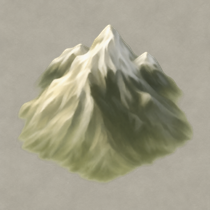
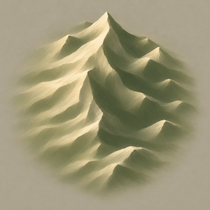
Replace canonical hills and mountains with accepted detail-v5 art
Owner accepted the latest relief and requested replacement of the previous
GitHub assets. Four unversioned PNGs now contain exact detail-v5 bytes.
Update the accepted baseline, canonical provenance and concise usage docs.
Preserve all backgrounds and versioned history; no renderer integration.

diff --git a/public/terrain/schematic/backgrounds/v1/README.md b/public/terrain/schematic/backgrounds/v1/README.md
@@ -1,114 +1,49 @@
-# Базовые фоны схематичной карты — v1
+# Подложки и рельеф схематичной карты — v1
 
-Подготовленные ассеты. К действующему отображению карты **не подключены**.
-Переход на новый режим и его реализация — следующий отдельный этап после завершения графики.
+Подготовленные ассеты. **К действующему рендереру пока не подключены.**
+Все PNG — **210 × 210 px, RGB/sRGB без прозрачности**. Подложка заполняет весь квадрат; внешний контур гекса применяется при отрисовке.
 
-Шесть отдельных непрозрачных PNG, каждый **210 × 210 px**, RGB/sRGB.
-Фон заполняет весь квадрат. Обрезку по гексу выполняет рендерер.
-Без рамок, деревьев, гор, камыша, берегов, дорог, POI и других условных знаков.
-Текстуры вдохновлены картографической манерой Strategic View Civilization V;
-это вновь сгенерированные изображения, а не извлечённые игровые материалы.
+## Шесть общих базовых фонов
 
-## Набор и согласованное назначение
-
-| Файл | Фон | Применение | Средний цвет PNG |
+| Файл | Подложка | Назначение | Средний цвет PNG |
 |---|---|---|---|
 | [grass.png](grass.png) | Травянистая | Открытые равнины и холмы; все живые леса и редколесья, включая горные, кроме заболоченного леса. | `#9DB063` |
-| [stone.png](stone.png) | Серо-каменистая | Голые горы и все мёртвые леса/редколесья, включая холмистые и горные. | `#AFAA9D` |
-| [swamp.png](swamp.png) | Болотная | Болото и заболоченный лес. | `#729079` |
+| [stone.png](stone.png) | Серо-каменистая | Голые горы и все мёртвые леса и редколесья, включая холмистые и горные. | `#AFAA9D` |
+| [swamp.png](swamp.png) | Болотная | Открытое болото и заболоченный лес. | `#729079` |
 | [sand.png](sand.png) | Песчаная | Полупустыня. | `#DFBD7A` |
 | [lake.png](lake.png) | Озёрная вода | Все озёра. | `#86B6C5` |
-| [sea.png](sea.png) | Морская вода | Всё море. Заметно темнее озёр. | `#45768F` |
+| [sea.png](sea.png) | Морская вода | Всё море, заметно темнее озёр. | `#45768F` |
 
-Средние цвета измерены по финальным PNG, это описание набора, не ограничение каждого пикселя.
-Густота и тип деревьев, рельеф, заболоченность и объекты добавляются отдельно.
-Для горных живых лесов используется grass.png; для мёртвого горного леса — stone.png.
-Заболоченный лес использует swamp.png. Море темнее озёр.
+Эти шесть фонов не изменены. Средние цвета описывают готовые PNG, а не задают цвет каждого пикселя.
+Запросы и параметры их создания: [generation.json](generation.json).
 
-## Подготовка и проверка
+## Текущий принятый рельеф — detail-v5
 
-Изображения созданы встроенным генератором изображений.
-Точные запросы и параметры финальных файлов: [generation.json](generation.json).
-Генерировался каждый фон отдельно. Финальный экспорт выполнен ImageMagick:
-`magick INPUT -filter Lanczos -resize 210x210! -alpha off -colorspace sRGB -strip -define png:color-type=2 OUTPUT.png`.
-После экспорта проверены PNG, 210×210, отсутствие прозрачности, различимость шести фонов и более тёмная морская вода.
-В код, правила генерации, настройки отображения, существующие тайлы и deployment workflow изменений нет.
+14.11.2026 владелец принял **detail-v5** и попросил заменить предыдущий вариант. Четыре основных файла без суффиксов заменены точными байтами соответствующих PNG этой версии:
 
-## Обязательная область рисунка
-
-При дальнейшей подготовке рисунков биомов используем [два нормативных шаблона](../../../../../design/schematic-tile-visible-area/v1/README.md): полный правильный гекс в каждой ориентации, без срезанных кончиков. Весь рисунок (включая кроны, ветви и тени) должен целиком помещаться внутри соответствующего контура. Подложка заполняет весь квадрат 210 × 210. Шаблоны задают целевое требование; подключение рендерера будет отдельным этапом.
-
-## Открытые холмы и горы — готовые тайлы
-
-Четыре отдельных PNG **210 × 210 px** на соответствующих базовых фонах. Рисунок — мягкий светотеневой рельеф по присланному владельцем образцу Strategic View Civilization V, без толстой контурной обводки. Холмы — группа округлых возвышенностей, горы — основная вершина с боковыми склонами.
-
-| Ориентация | Открытые холмы — grass.png | Горы — stone.png |
+| Ориентация гекса | Открытые холмы · травянистый фон | Голые горы · каменистый фон |
 |---|---|---|
 | Вершиной вверх | [open-hills-pointy.png](open-hills-pointy.png) | [mountains-pointy.png](mountains-pointy.png) |
 | Стороной вверх | [open-hills-flat.png](open-hills-flat.png) | [mountains-flat.png](mountains-flat.png) |
 
-Рисунок в обеих ориентациях остаётся вертикальным и целиком помещается в утверждённом правильном гексе. Масштабирование равномерное; склоны и вершины не обрезаны по маске. Подложка заполняет весь квадрат, за пределами рисунка исходный фон сохранён.
+Это цельные непрозрачные изображения фона и рельефа: подножия естественно переходят в землю по цвету и фактуре, крупные формы и гребни читаются, мелкая детализация сокращена. Повторное наложение отдельного слоя рельефа не требуется.
 
-Проверены формат/размер PNG, отсутствие ненулевых пикселей слоя рельефа за контуром гекса, неизменность фона за контуром и визуальная различимость холмов/гор. Запросы генерации, параметры и SHA-256: [relief-generation.json](relief-generation.json). Рисунки созданы заново, материалы игры не извлекались.
+Фон внутри готового рельефного тайла согласован с соответствующей подложкой живописно; его пиксельное совпадение с отдельным базовым PNG не заявляется. У принятого detail-v5 холмы темнее и оливковее ранней версии blended-v3. Для живых горных лесов назначение остаётся **grass.png**, для голых гор — **stone.png**.
 
-**К рендереру эти четыре тайла пока не подключены.** Подключение и исправление прямоугольной обрезки при повороте остаются отдельным этапом.
+Текущий статус, основные имена и SHA-256: [accepted-relief-baseline.json](accepted-relief-baseline.json).
+Проверенные параметры, запросы генерации и происхождение основных файлов: [relief-generation.json](relief-generation.json).
+Исходные метаданные принятой версии: [relief-detail-v5-generation.json](relief-detail-v5-generation.json).
 
-## Более плотная композиция рельефа — dense-v2
+## Геометрия и область рисунка
 
-После проверки повторяющихся тайлов на карте уменьшено пустое пространство вокруг рельефа: добавлены ряды округлых холмов и связанные предгорья. Периметр перерисован с естественными окончаниями склонов вместо прямых шестиугольных срезов. Это новые композиции, сохранённые отдельными файлами; предыдущие варианты остаются для сравнения.
+Обязательны [два нормативных шаблона полного правильного гекса](../../../../../design/schematic-tile-visible-area/v1/README.md): вершиной вверх и стороной вверх, без дополнительного срезания кончиков и без расширенного отступа под реку.
 
-| Ориентация | Открытые холмы — grass.png | Горы — stone.png |
-|---|---|---|
-| Вершиной вверх | [open-hills-pointy-dense-v2.png](open-hills-pointy-dense-v2.png) | [mountains-pointy-dense-v2.png](mountains-pointy-dense-v2.png) |
-| Стороной вверх | [open-hills-flat-dense-v2.png](open-hills-flat-dense-v2.png) | [mountains-flat-dense-v2.png](mountains-flat-dense-v2.png) |
+Весь значимый рисунок — включая вершины, склоны, кроны, ветви и тени — должен целиком помещаться внутри соответствующего контура. В обеих ориентациях рисунок остаётся вертикальным. Фон заполняет квадрат 210 × 210 px; обрезка значимых форм по границе гекса недопустима.
 
-Каждый PNG — 210 × 210 px на прежнем базовом фоне. Новые композиции заполняют примерно 73–78% площади гекса по ненулевой прозрачности исходного слоя рельефа. Ни один пиксель рельефа не пересекает правильный гекс; экспорт равномерно масштабирует весь рисунок без обрезки маской. Запросы, измерения и SHA-256: [relief-dense-v2-generation.json](relief-dense-v2-generation.json).
+Размер, RGB-формат и отсутствие прозрачности принятых PNG проверены. Целостность вершин, плавность перехода в фон и читаемость повторяющихся тайлов проверены визуально на картах в обоих положениях гекса.
 
-Это подготовленные варианты графики. Действующий рендерер и текущий режим карты не изменялись.
+## Предыдущие версии
 
-## Естественный переход рельефа в фон — blended-v3
+Файлы с суффиксами `dense-v2`, `blended-v3`, `calm-v4` и исходные `detail-v5` сохранены для истории и сравнения. Они не заменяют текущие основные имена из таблицы выше. Их происхождение описано в [метаданных dense-v2](relief-dense-v2-generation.json), [blended-v3](relief-blended-v3-generation.json), [calm-v4](relief-calm-v4-generation.json) и [detail-v5](relief-detail-v5-generation.json).
 
-Четыре тайла перерисованы как цельные непрозрачные изображения: подножия постепенно сливаются с травянистой или каменистой землёй по цвету, теням и фактуре. Светлый контур и резкий край вырезанного силуэта убраны; гребни, вершины и крупная композиция сохранены.
-
-| Ориентация | Открытые холмы | Горы |
-|---|---|---|
-| Вершиной вверх | [open-hills-pointy-blended-v3.png](open-hills-pointy-blended-v3.png) | [mountains-pointy-blended-v3.png](mountains-pointy-blended-v3.png) |
-| Стороной вверх | [open-hills-flat-blended-v3.png](open-hills-flat-blended-v3.png) | [mountains-flat-blended-v3.png](mountains-flat-blended-v3.png) |
-
-Каждый файл — 210 × 210 px, RGB PNG без прозрачности; фон заполняет весь квадрат. Это готовая живопись фона и рельефа в одном изображении. Повторно накладывать на неё прозрачный слой рельефа не нужно. Внешний контур гекса применяется при отрисовке.
-
-Шесть отдельных базовых фонов не изменены. Фон внутри новых рельефных тайлов перерисован для естественного перехода и визуально согласован с grass.png/stone.png; его пиксельное совпадение с отдельной подложкой не заявляется. Геометрия рельефа и отсутствие срезанных вершин проверены визуально в обоих положениях гекса и на группах повторяющихся клеток. Запросы, формат, измерения цвета углов и SHA-256: [relief-blended-v3-generation.json](relief-blended-v3-generation.json).
-
-Предыдущие варианты оставлены для сравнения. Подключение этих тайлов к действующей карте не выполнялось.
-
-## Принятая визуальная основа
-
-14.11.2026 владелец отметил **blended-v3** как первый приемлемый вариант и попросил сохранить его. Все четыре PNG этой версии оставлены без изменений. Имена, SHA-256 и исходный коммит зафиксированы в [accepted-relief-baseline.json](accepted-relief-baseline.json).
-
-Дальнейшее упрощение деталей выполняется в отдельных файлах для сравнения с этой основой.
-
-## Сниженная детализация при сохранении основных форм — calm-v4
-
-Отдельный кандидат для сравнения с принятой blended-v3. Сокращены мелкие складки на склонах, узкие разветвлённые гребешки и раздробленность бликов. Основные купола холмов, вершины, расположение и крупная светотеневая композиция сохранены узнаваемыми; переход в фон остаётся естественным.
-
-| Ориентация | Открытые холмы | Горы |
-|---|---|---|
-| Вершиной вверх | [open-hills-pointy-calm-v4.png](open-hills-pointy-calm-v4.png) | [mountains-pointy-calm-v4.png](mountains-pointy-calm-v4.png) |
-| Стороной вверх | [open-hills-flat-calm-v4.png](open-hills-flat-calm-v4.png) | [mountains-flat-calm-v4.png](mountains-flat-calm-v4.png) |
-
-Все PNG — 210 × 210 px, RGB без прозрачности. В холмистых кандидатах также заметно усилилась зелёная насыщенность относительно основы; сохранение цвета пиксель в пиксель не заявляется. Это кандидаты, не замена принятой версии. Запросы, исходные имена, результаты проверки и SHA-256: [relief-calm-v4-generation.json](relief-calm-v4-generation.json).
-
-Для проверки издалека собрана одна непрерывная карта: слева blended-v3, справа calm-v4, общие полосы холмов и гор проходят через обе половины; по 72 гекса с каждой стороны. Существующие PNG, базовые фоны и действующий рендерер не изменены.
-
-## Ещё меньше мелких деталей и приглушённая зелень — detail-v5
-
-Следующий отдельный кандидат на основе calm-v4: дополнительно упрощены мелкие складки, разветвлённые прожилки, второстепенные грани и дробные блики внутри существующих форм. Основные холмы, горные вершины, их расположение и крупные гребни сохранены; свет и тень остаются чёткими, подножия естественно переходят в фон.
-
-| Ориентация | Открытые холмы | Горы |
-|---|---|---|
-| Вершиной вверх | [open-hills-pointy-detail-v5.png](open-hills-pointy-detail-v5.png) | [mountains-pointy-detail-v5.png](mountains-pointy-detail-v5.png) |
-| Стороной вверх | [open-hills-flat-detail-v5.png](open-hills-flat-detail-v5.png) | [mountains-flat-detail-v5.png](mountains-flat-detail-v5.png) |
-
-Все файлы — 210 × 210 px, непрозрачный RGB PNG. Избыточная яркая зелёная насыщенность холмов снижена относительно v4. Точное совпадение с палитрой принятой v3 не заявляется: pointy темнее и оливковее, flat немного насыщеннее. Исходные запросы, SHA-256, формат и измерения HSV фона: [relief-detail-v5-generation.json](relief-detail-v5-generation.json).
-
-Проверено на одной непрерывной карте в обеих ориентациях: слева предыдущий calm-v4, справа detail-v5, по 72 гекса с каждой стороны. Принятая blended-v3, предыдущие кандидаты, шесть базовых фонов и действующий рендерер сохранены без изменений.
+Изображения созданы заново по согласованному картографическому ориентиру Strategic View Civilization V; материалы игры не извлекались. Код, правила генерации, настройки отображения и deployment workflow этой заменой не меняются. Подключение новой графики к карте будет отдельным этапом.
